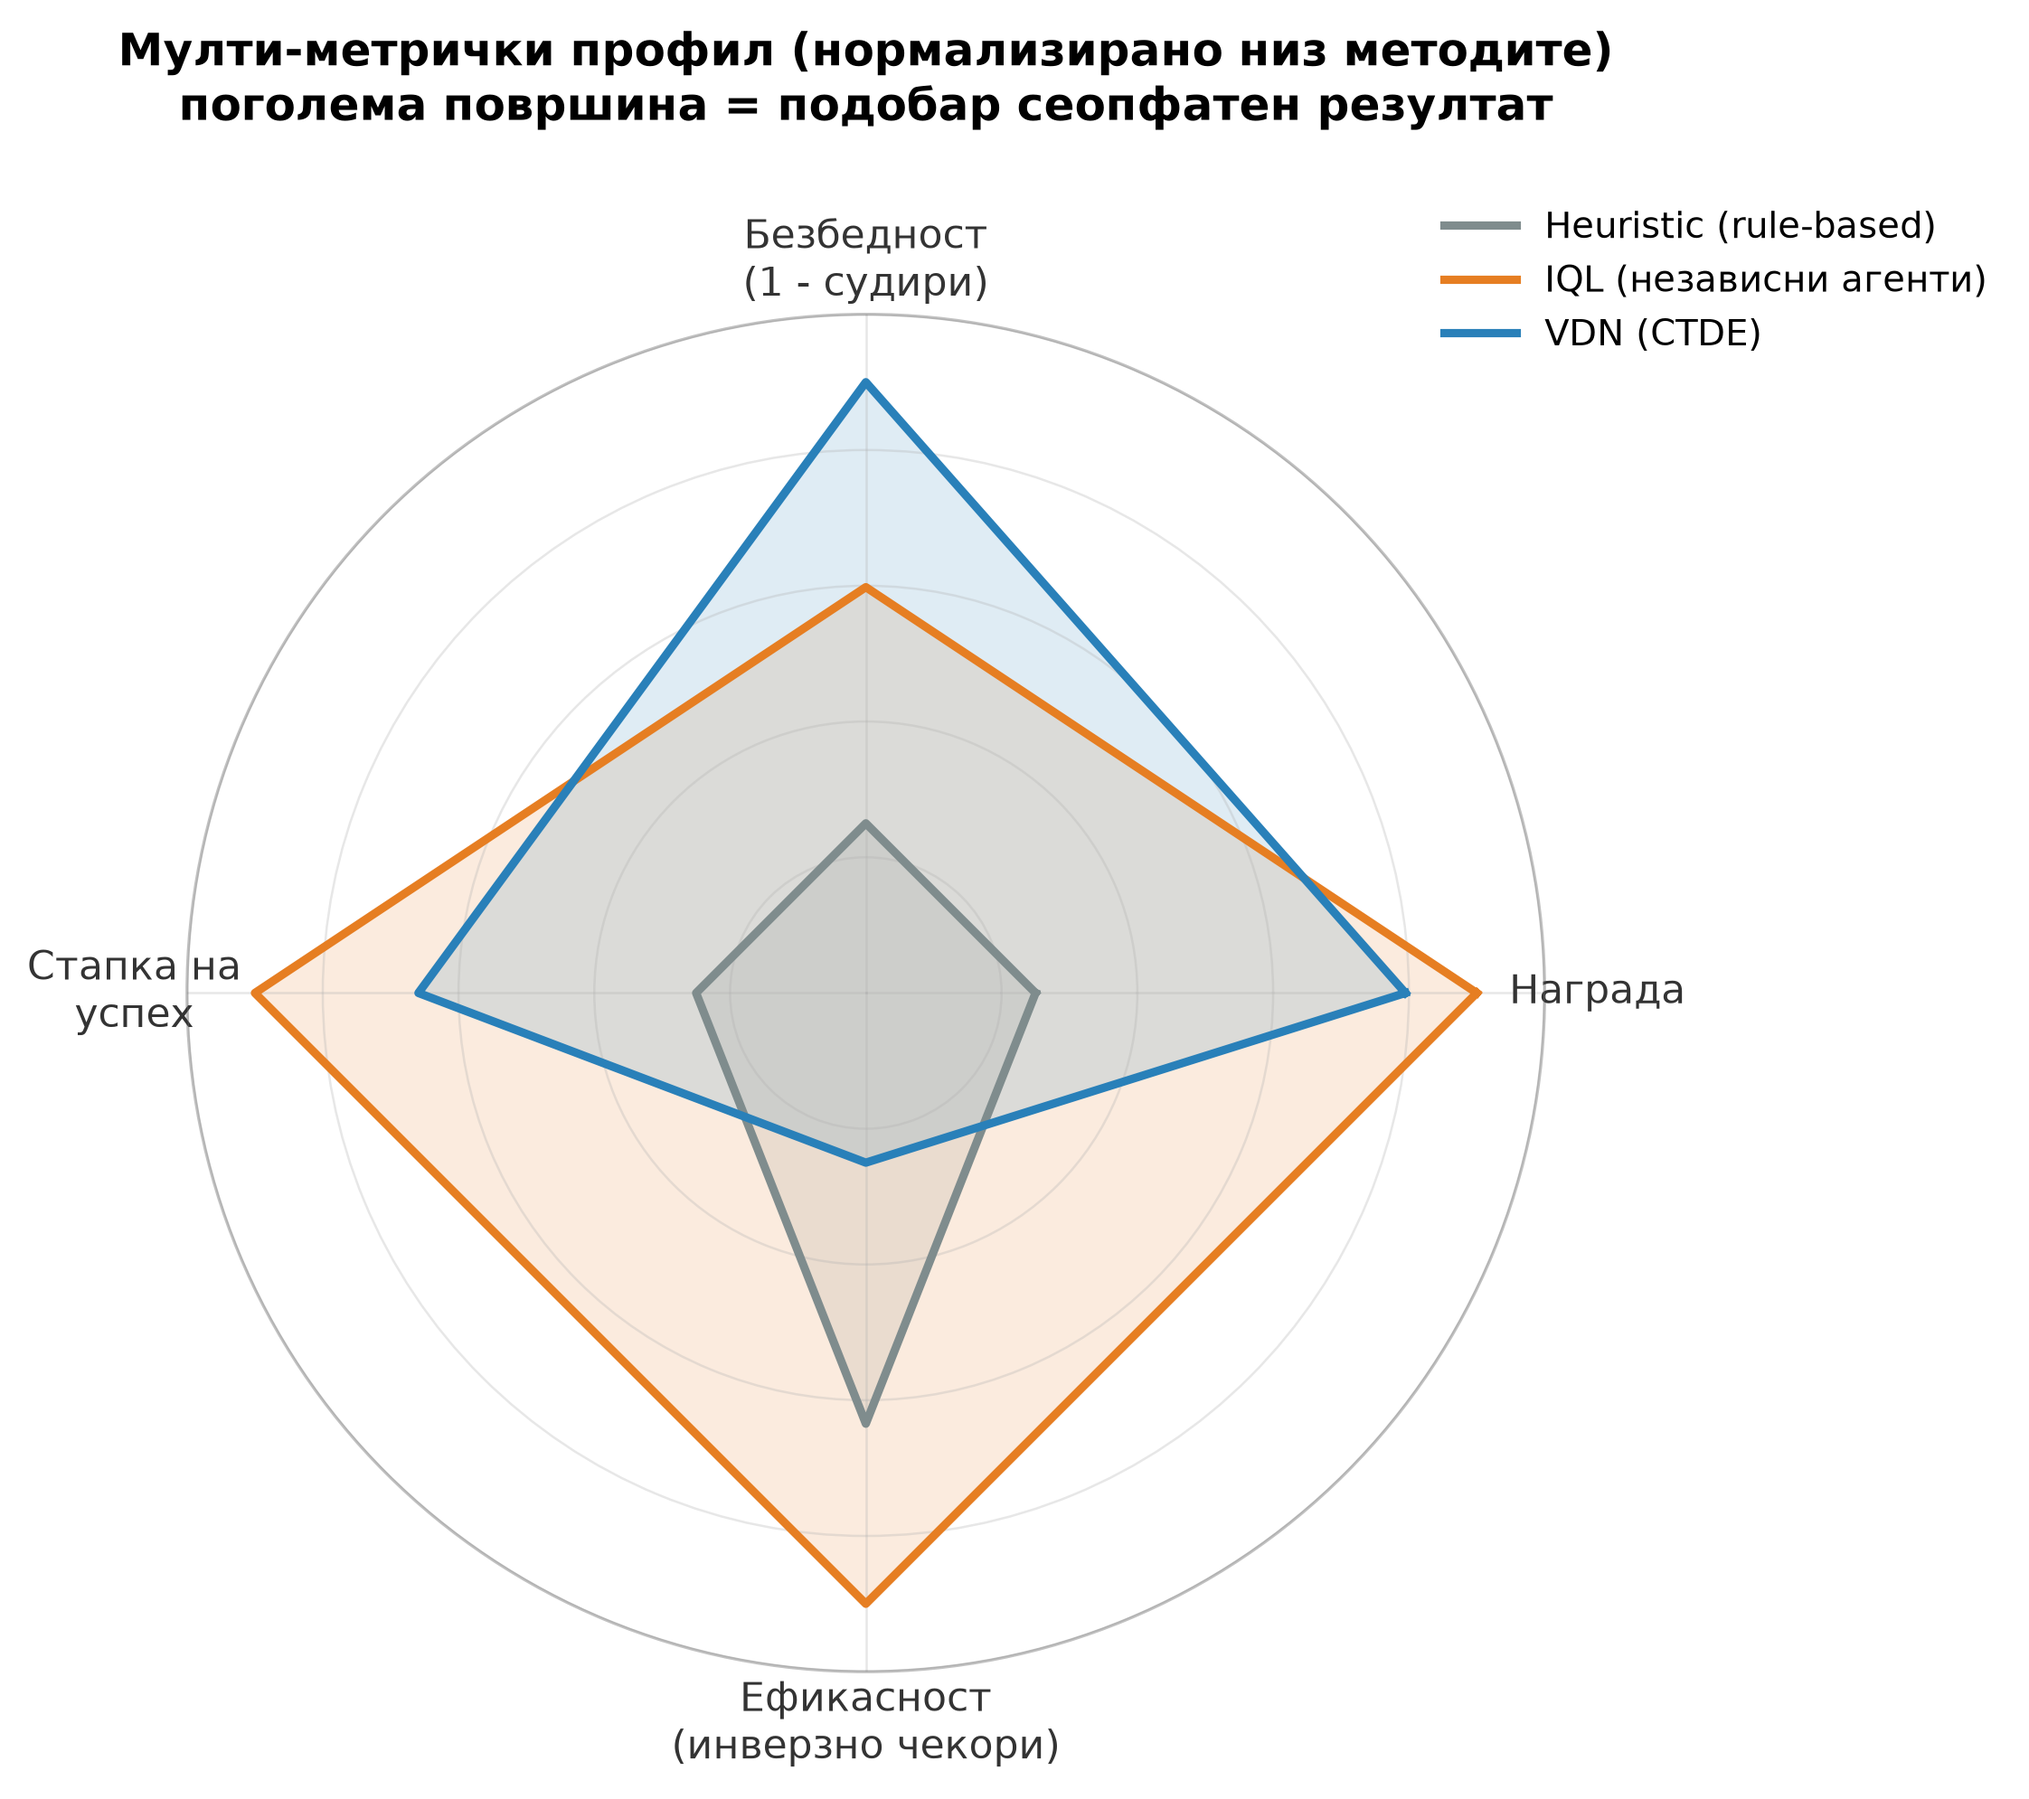
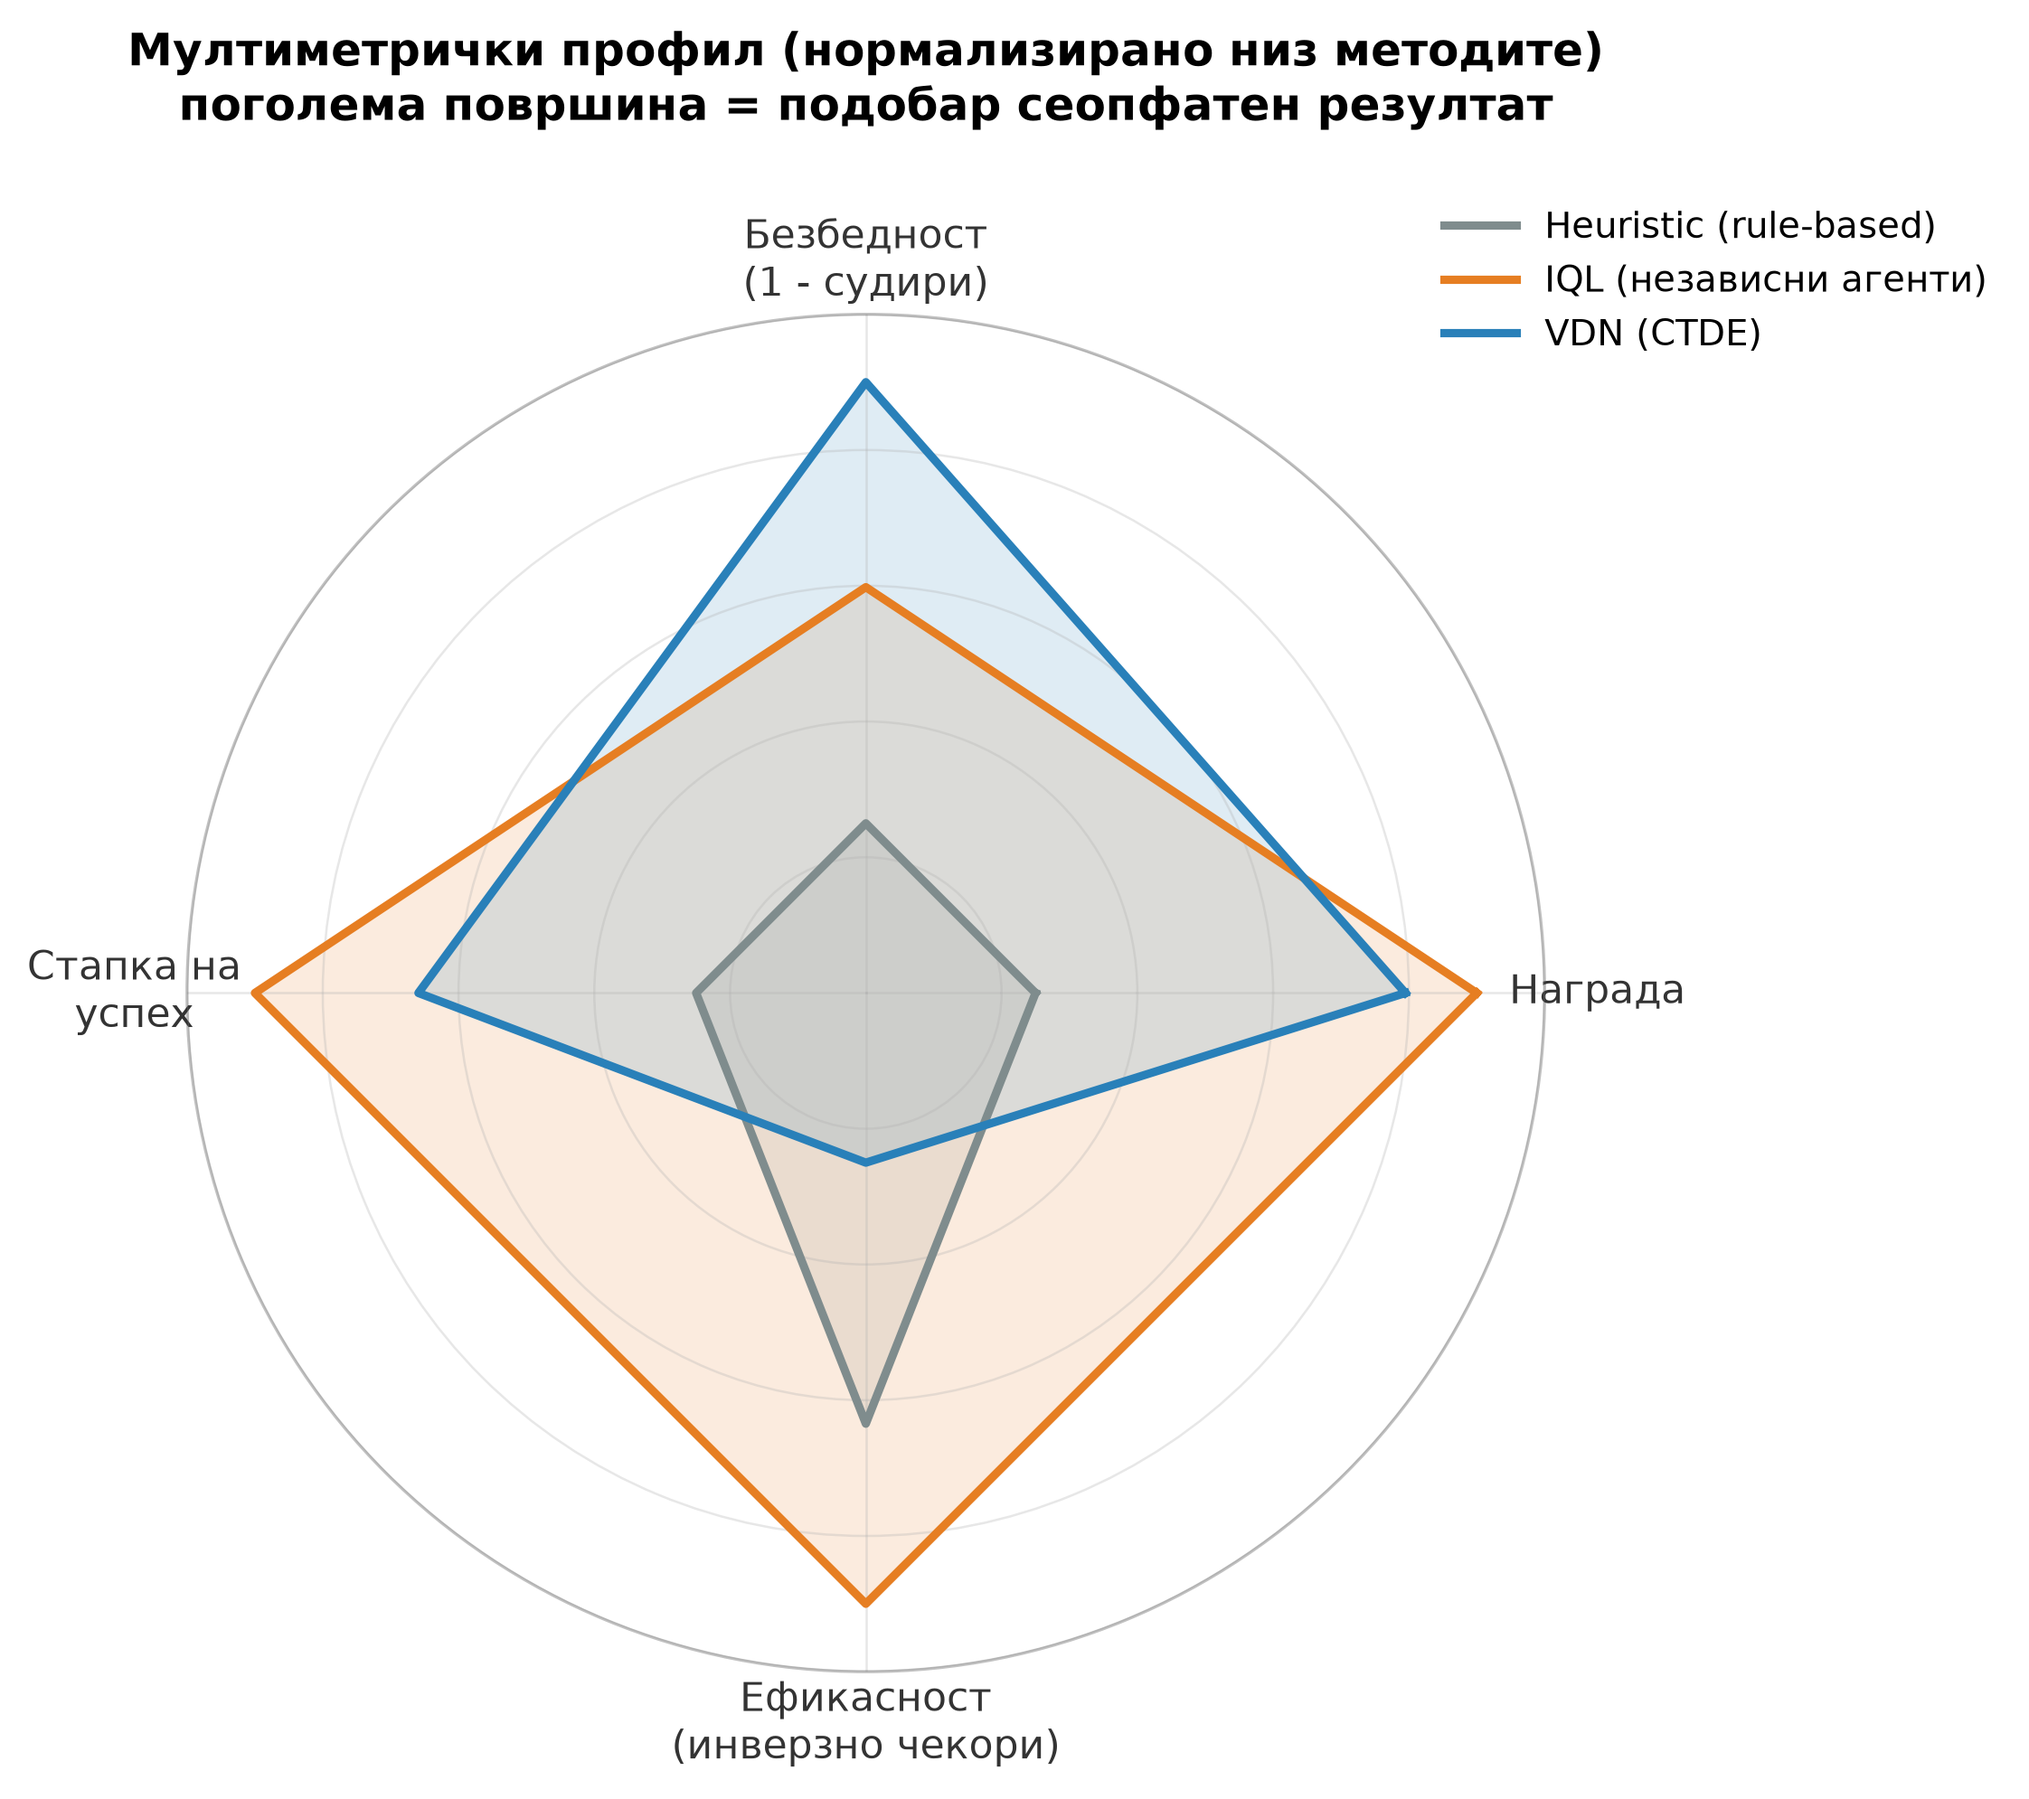
Cleanup and consistency fixes

Changed region(s): [[0.0624, 0.0, 0.8111, 0.0623]]

diff --git a/visualize_results.py b/visualize_results.py
@@ -4,7 +4,7 @@
 Прави 9 фигури, секоја е замислена да оди директно во извештајот:
   1. training_curves.png        - конвергенција на сите методи (reward/collision/arrival)
   2. method_comparison.png      - групиран bar chart со 95% доверителен интервал
-  3. radar_comparison.png       - "spider" дијаграм - нормализирана мулти-метричка споредба
+  3. radar_comparison.png       - "spider" дијаграм - нормализирана мултиметричка споредба
   4. reward_ablation.png        - однос безбедност-ефикасност при варирање на collision_reward
   5. courtesy_ablation.png      - цена на courtesy_weight (мојот fairness shaping член)
   6. scalability.png            - перформанси по број контролирани возила (2-5 агенти)
@@ -280,7 +280,7 @@ def plot_method_comparison():
 
 
 # ---------------------------------------------------------------------------
-# 3. Radar / spider дијаграм - нормализирана мулти-метричка споредба
+# 3. Radar / spider дијаграм - нормализирана мултиметричка споредба
 #    (визуелно веднаш се гледа целосниот "профил" на секој метод)
 # ---------------------------------------------------------------------------
 def plot_radar_comparison():
@@ -333,7 +333,7 @@ def plot_radar_comparison():
     ax.spines["polar"].set_alpha(0.3)
     ax.grid(alpha=0.3)
     ax.set_title(
-        "Мулти-метрички профил (нормализирано низ методите)\n"
+        "Мултиметрички профил (нормализирано низ методите)\n"
         "поголема површина = подобар сеопфатен резултат",
         fontsize=12, fontweight="bold", pad=25,
     )

diff --git a/envs/multi_agent_intersection.py b/envs/multi_agent_intersection.py
@@ -1,7 +1,7 @@
 """
 Ова е мојата сопствена "обвивка" (wrapper) околу околината intersection-v2
 од библиотеката highway-env. Ми требаше затоа што highway-env
-не поддржува сè што ми е потребно за мулти-агентен RL проект:
+не поддржува сè што ми е потребно за мултиагентен RL проект:
 
   1. Можност сама да одберам колку возила да контролирам (колку "агенти"
      да учествуваат во учењето).
@@ -22,7 +22,7 @@
 внатрешно има функција `_agent_reward(action, vehicle)` која ја пресметува
 наградата за секое возило поединечно, но таа НЕ е достапна преку
 стандардниот gymnasium `step()` повик кога се користи MultiAgentAction/
-MultiAgentObservation (токму она што ми треба мене за мулти-агентен
+MultiAgentObservation (токму она што ми треба мене за мултиагентен
 сетинг). Затоа морам да "влезам подлабоко" преку `env.unwrapped` и да ја
 викам таа функција директно, за секое возило одделно - тоа е всушност
 најважниот дел од овој фајл (методот `step()` подолу).

diff --git a/agents/iql_manager.py b/agents/iql_manager.py
@@ -5,7 +5,7 @@ Independent Q-Learning (IQL): секој агент е одделен DQNAgent
 воопшто не знае дека агент 2 постои како "агент", само го гледа во
 опсервацијата како уште едно возило на патот.
 
-Ова е намерно наједноставниот мулти-агентен baseline во проектот, и
+Ова е намерно наједноставниот мултиагентен baseline во проектот, и
 служи за споредба со VDN/CTDE пристапот. Директно го тестира тврдењето од
 белешките за MARL: "Од гледна точка на еден агент, средината станува
 понестабилна: другите агенти учат и ја менуваат нивната политика." Со

diff --git a/README.md b/README.md
@@ -1,6 +1,6 @@
 *[Read in English → README.en.md](README.en.md)*
 
-# Мулти-агентно учење со поттикнување за координација на автономни возила на раскрсница
+# Мултиагентно учење со поттикнување за координација на автономни возила на раскрсница
 
 Проект од предметот **Агентно-базирани системи**
 (MDP → Bellman/DP → RL основи → Deep RL/DQN → Multi-Agent RL).
